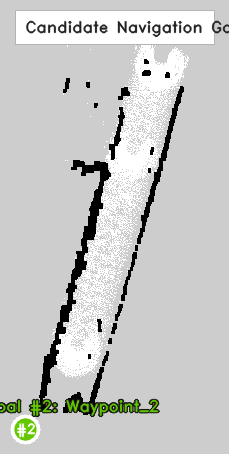
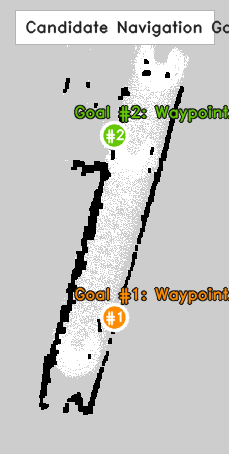
refactor(system_bringup): modularize system bringup into 4-part guide and clean docs foldering
- Structure system_bringup/ into 4 clean, focused modules:
  - Part 1 (01_preflight_and_network_setup.md): Hardware boot, Stand Mode check, ./connect_hotspot.sh, and NetBird VPN check
  - Part 2 (02_five_step_operational_sop.md): End-to-end 5-step operational pipeline (Mapping -> 2D Golden Map -> Localization & Goal HUD -> Autonomous Run -> Metrics)
  - Part 3 (03_pixnav_policy_and_slam_cheat_key_synthesis.md): Comprehensive analysis of PixNav policy, 3D->2D projection math, Euclidean distance arrival, and SLAM cheat-key vs ESCAPE-Nav
  - Part 4 (04_failsafes_and_troubleshooting.md): Field troubleshooting for perceptual aliasing, in-place rotation locks, topic namespace checks, and emergency stops
  - README.md: Executive hub with architecture diagram and quick reference commands
- Move unorganized space-containing screenshot in docs/ to docs/docker/visualizations/s2e_vlm_bringup_robot_side_launch.png
- Update docs/README.md priorities and canonical mapping command

diff --git a/system_bringup/README.md b/system_bringup/README.md
@@ -1,4 +1,4 @@
-# 🚀 Unitree Go2 ESCAPE-Nav & PixNav 시스템 브링업 마스터 가이드
+# 🚀 Unitree Go2 ESCAPE-Nav & PixNav 시스템 브링업 마스터 허브
 
 > **문서 버전**: v1.0.0 (ICRA 2026 Production Standard)  
 > **대상 플랫폼**: Unitree Go2 EDU (Jetson Orin NX 16GB + 4D LiDAR L2 + Front RGB Camera)  
@@ -7,20 +7,20 @@
 
 ---
 
-## 📌 목차 (Table of Contents)
+## 📌 마스터 가이드 모듈 구성
 
-1. [시스템 개요 및 아키텍처](#1-시스템-개요-및-아키텍처)
-2. [하드웨어 & 네트워크 사전 준비 (Pre-Flight)](#2-하드웨어--네트워크-사전-준비-pre-flight)
-3. [4대 표준 실행 스크립트 요약](#3-4대-표준-실행-스크립트-요약)
-4. [엔드투엔드 운영 파이프라인 (SOP 5단계)](#4-엔드투엔드-운영-파이프라인-sop-5단계)
-5. [핵심 연구 문서 안내 (PixNav 실체 & SLAM 치트키 분석)](#5-핵심-연구-문서-안내)
-6. [비상 조치 및 E-Stop](#6-비상-조치-및-e-stop)
+본 `system_bringup/` 디렉터리는 실물 사족로봇 Go2의 부팅부터 벤치마크 평가, 그리고 딥러닝 정책 분석까지 **역할별로 특화된 4대 독립 모듈**로 체계화되어 있습니다:
+
+| 모듈 번호 | 문서명 | 세부 내용 및 핵심 목적 |
+|:---:|---|---|
+| **Part 1** | [⚡ `01_preflight_and_network_setup.md`](01_preflight_and_network_setup.md) | **하드웨어 부팅 & 네트워크 전환**<br>• Go2 본체 전원 인가 및 Stand Mode 확인<br>• `./connect_hotspot.sh` 원터치 무선랜 및 NetBird VPN(`wt0`) 전환<br>• 외부 VLM GPU 서버(`100.96.60.15:8000`) 핑/API 헬스체크 |
+| **Part 2** | [📋 `02_five_step_operational_sop.md`](02_five_step_operational_sop.md) | **엔드투엔드 5단계 운영 SOP**<br>• 1단계: 3D/2D 복도 매핑 (`./run_mapping.sh`)<br>• 2단계: 2D 골든 맵 추출 (`extract_final_golden_map.py`)<br>• 3단계: 위치추정 HUD & 엔터키 골 등록 (`./run_localization.sh`)<br>• 4단계: 자율주행 실행 (`./run_escape_nav.sh` vs `./run_pixnav.sh`)<br>• 5단계: 결과 CSV 및 대시보드 그래프 확인 |
+| **Part 3** | [🧠 `03_pixnav_policy_and_slam_cheat_key_synthesis.md`](03_pixnav_policy_and_slam_cheat_key_synthesis.md) | **PixNav 실체 분석 & SLAM 치트키 논쟁**<br>• Checkpoint_A 4채널 ResNet-18 + 트랜스포머 디코더 구조<br>• 3D 좌표의 2D 픽셀 $u$ 투영 공식 및 $v=360$ 중앙 고정 이유<br>• 등 뒤($180^\circ$) $u=160$ 억지 클램핑과 25° 회전 가드의 실체<br>• 100% 유클리드 거리 도착 판정 (비전 개입 0%)<br>• "SLAM 치트키" vs ESCAPE-Nav 비교 및 ICRA 논문 기여도 |
+| **Part 4** | [🛠 `04_failsafes_and_troubleshooting.md`](04_failsafes_and_troubleshooting.md) | **안전 가드 & 현장 트러블슈팅**<br>• 대칭 복도에서의 20m 텔레포트 오인 락온(Perceptual Aliasing) 방지<br>• `/localization_pose` 토픽 네임스페이스 점검 가이드<br>• 25° 강제 회전 헛바퀴 대처법 & 비정상 골 좌표 초기화<br>• 키보드/조종기/명령어 비상 정지(E-Stop) 프로토콜 |
 
 ---
 
-## 1. 🏗 시스템 개요 및 아키텍처
-
-본 워크스페이스(`go2_ws_antarctica`)는 사족보행 로봇 **Unitree Go2 EDU** 상에서 **ICRA 2026 자율주행 연구(*ESCAPE-Nav: Experience-Shaped Causally Aligned Perception–Execution for Asynchronous VLM Navigation*)**의 실물 로봇 온보드 배포 및 베이스라인(**PixNav**) 비교 평가를 수행하기 위한 전용 프로덕션 환경입니다.
+## 🏗 시스템 아키텍처 개요
 
 ```text
                                 [Unitree Go2 EDU 실물 로봇]
@@ -41,141 +41,32 @@
 
 ---
 
-## 2. ⚡ 하드웨어 & 네트워크 사전 준비 (Pre-Flight)
-
-### 2.1 하드웨어 부팅 순서
-1. **Go2 로봇 본체 전원 켜기**:
-   * 배터리 전원 버튼 1회 짧게 + 1회 길게(3초) 눌러 로봇 기동.
-   * 로봇이 서서히 일어서며 자세를 유지하는지 확인.
-2. **Jetson Orin NX 연결 확인**:
-   * 로봇 내부의 젯슨에 모니터/HDMI 또는 SSH로 접속:
-     ```bash
-     ssh unitree@192.168.123.18  # 유선 이더넷 직결 시
-     # 또는 NetBird VPN IP로 접속
-     ```
-
-### 2.2 모바일 핫스팟 및 NetBird VPN 원터치 전환
-복도 주행 중 무선 통신을 위해 유선 랜선을 뽑기 전, 반드시 핫스팟 연결 스크립트를 실행합니다:
+## 🎯 4대 표준 실행 스크립트 퀵 레퍼런스
 
 ```bash
 cd /home/unitree/go2_ws_antarctica
-./connect_hotspot.sh
-```
-* **검증 확인 사항**:
-  * `wlan0` 무선랜 연결 성공 여부
-  * NetBird VPN 가상 인터페이스 `wt0` 활성화 여부
-  * 외부 VLM 워크스테이션 핑 점검:
-    ```bash
-    ping -c 3 100.96.60.15
-    curl -s http://100.96.60.15:8000/v1/models | grep qwen
-    ```
 
----
+# 1. 3D/2D 복도 매핑
+./run_mapping.sh          # 헤드리스 매핑 (GUI 시각화 필요 시 --view 옵션 추가)
 
-## 3. 🎯 4대 표준 실행 스크립트 요약
+# 2. 실시간 위치추정 HUD & 대화형 골 등록
+./run_localization.sh     # 5초 웜업 후 [ENTER] 누르면 현재 위치 및 카메라 사진을 골로 자동 저장
 
-루트 디렉토리에 직관적인 정식 표준 명칭으로 통합되어 있습니다:
+# 3. 제안 기법: Full ESCAPE-Nav 자율주행
+./run_escape_nav.sh 1     # Goal 1번으로 Qwen-VL 비전 서보잉 주행
 
-| 표준 실행 명령어 | 대상 모드 및 세부 역할 |
-|---|---|
-| **`./run_mapping.sh`** | **3D/2D 복도 매핑 (SLAM)**<br>• L2 라이다 + IMU + 전면 카메라 정합 신규 지도 생성<br>• `--view` 옵션으로 3D GUI 뷰어 확인 가능 |
-| **`./run_localization.sh`** | **위치추정 HUD & 골 매니저**<br>• RTAB-Map 3DoF 전역 위치추정 실시간 모니터링<br>• 엔터([ENTER]) 입력 시 현 위치 + 카메라 사진을 신규 골로 자동 등록 |
-| **`./run_escape_nav.sh`** | **[Proposed] Full ESCAPE-Nav 주행**<br>• Qwen-VL 비동기 시각 서보잉 + Checkpoint_A 정책 협업<br>• 4D 라이다 능동 장애물 회피 및 벤치마크 대시보드 자동 저장 |
-| **`./run_pixnav.sh`** | **[Baseline] Direct PixNav 주행**<br>• 온보드 CUDA Checkpoint_A 가속 주행 (~54ms 추론)<br>• 라이다 긴급 제동 가드레일 적용 |
-
----
-
-## 4. 📋 엔드투엔드 운영 파이프라인 (SOP 5단계)
-
-### 🔹 [1단계] 복도 매핑 (SLAM Mapping)
-새로운 복도나 환경에서 신규 맵을 생성할 때 실행합니다:
-
-```bash
-./run_mapping.sh
-```
-1. 조종기로 로봇을 복도 시작점(Node 1)에서 끝점까지 천천히 왕복 주행시킵니다.
-2. 루프 클로저가 충분히 형성되면 `Ctrl+C`를 눌러 맵을 안전하게 저장합니다 (`~/.ros/rtabmap.db`).
-
----
-
-### 🔹 [2단계] 2D 골든 맵 자동 추출
-저장된 DB로부터 내비게이션용 고해상도 2D 평면도(`2d.png`, `2d_metadata.json`)를 추출합니다:
-
-```bash
-python3 scratch/extract_final_golden_map.py
-```
-* `2dmap/2d.png` 및 `2dmap/2d_metadata.json`이 자동 갱신됩니다.
-
----
-
-### 🔹 [3단계] 위치추정 가동 및 대화형 골 등록 (Interactive HUD)
-로봇을 복도 시작 지점에 두고 위치추정 HUD를 실행합니다:
-
-```bash
-./run_localization.sh
-```
-1. **5초 안정화 모니터**: HUD에서 지터(Jitter)가 안정되고 `LOCALIZED`가 뜨는지 확인합니다.
-2. **골 등록**: 조종기로 로봇을 원하는 목적지(Waypoint 1)로 이동시킨 후 **`[ENTER]`**를 누릅니다:
-   * 현재 $(X, Y, Z, \text{Yaw})$ 좌표가 `config/navigation_goals.json`에 저장됩니다.
-   * 전면 카메라 사진(`config/goals/goal_01_Waypoint_1.jpg`)이 자동 캡처됩니다.
-   * 2D 지도에 골 핀이 오버레이된 `2dmap/2d_goals_map.png`가 자동 생성됩니다.
-3. 필요한 만큼 웨이포인트를 등록한 후 `q`를 눌러 종료합니다.
-
----
-
-### 🔹 [4단계] 자율주행 실행 (ESCAPE-Nav vs PixNav)
-
-#### 제안 기법 주행 (ESCAPE-Nav)
-```bash
-./run_escape_nav.sh 1       # Goal 1번으로 즉시 주행
-./run_escape_nav.sh 1,2     # Goal 1 -> Goal 2 순차 패트롤 주행
+# 4. 베이스라인: Direct PixNav 온보드 CUDA 자율주행
+./run_pixnav.sh 1         # Goal 1번으로 Checkpoint_A 신경망 고속 주행 (~54ms)
 ```
 
-#### 베이스라인 주행 (PixNav)
-```bash
-./run_pixnav.sh 1           # Goal 1번으로 PixNav 단독 주행
-```
-
-* 주행 중 터미널에 실시간 속도($v_x, w_z$), 남은 거리, 추론 레이턴시가 10Hz로 스트리밍됩니다.
-* 목표 지점 $0.35\text{m}$ 이내에 도달하면 자동으로 감속 정지하며 미션이 성공(`ARRIVED`) 처리됩니다.
-
 ---
 
-### 🔹 [5단계] 실험 결과 및 벤치마크 아티팩트 확인
-주행이 완료되면 `experiments/pixnav/` 또는 `experiments/ours/` 아래에 타임스탬프 폴더가 자동 생성됩니다:
+## 🛑 비상 조치 (Emergency Stop)
 
-* `trial_trajectory_on_2d_map.png`: 2D 평면도 위에 실제 주행 궤적이 오버레이된 이미지.
-* `trial_benchmark_dashboard.png`: 4분할 연구용 출판 품질 대시보드 그래프.
-* `trajectory_raw.csv`: 10Hz 원시 포즈 및 속도 시계열 데이터.
-* `vlm_decisions.jsonl`: 매 추론 스텝별 행동, 확률, 레이턴시 기록.
-* `camera_snapshots/`: 실시간 카메라 판단 뷰 저장 디렉토리.
-
----
-
-## 5. 📚 핵심 연구 문서 안내
-
-본 폴더에는 이번 연구 세션에서 규명된 **PixNav의 내부 실체와 SLAM 치트키 논쟁에 대한 심층 보고서**가 보존되어 있습니다:
-
-* 👉 [`01_pixnav_deep_synthesis_and_slam_cheat_key.md`](01_pixnav_deep_synthesis_and_slam_cheat_key.md)
-  * **PixNav 정책 신경망 구조**: 4채널 ResNet-18 + 트랜스포머 디코더 분석
-  * **3D ➔ 2D 픽셀 투영 기하학**: 가로 픽셀 $u$ 계산식 및 $v=360$ 중앙 고정 이유
-  * **등 뒤(180°)의 딜레마**: 화각 밖 $u=160$ 억지 클램핑과 25° 강제 제자리 회전 가드의 실체
-  * **10Hz 상태 추정**: 1Hz SLAM 보정과 50Hz 오도메트리 적분의 결합 원리
-  * **주행 성공 판정의 진실**: 비전 개입 0%, 100% 유클리드 거리 판정 메커니즘
-  * **"SLAM 치트키" vs ESCAPE-Nav 비교**: 왜 메트릭 흉내내기가 직선 복도에서만 강하고 실세계에서는 자멸하는가?
-* 👉 [`02_fail_safes_and_troubleshooting.md`](02_fail_safes_and_troubleshooting.md)
-  * 대칭 복도에서의 20m 텔레포트 오인 락온 방지법
-  * 토픽 네임스페이스 점검 가이드
-
----
-
-## 6. 🛑 비상 조치 및 E-Stop
-
-주행 도중 로봇이 이상 거동을 보이거나 비상 정지가 필요한 경우:
-1. **키보드 비상 정지**: 터미널에서 **`Ctrl + C`**를 누르면 트랩 핸들러가 발동하여 로봇 속도를 $0.0$으로 즉시 초기화하고 모든 프로세스를 안전하게 종료합니다.
-2. **조종기 인터럽트**: Unitree 무선 조종기의 비상 정지 버튼(L2+B 또는 스탠드 모드 전환)을 누르면 모터 레벨에서 하드웨어 락이 걸립니다.
-3. **긴급 강제 종료 명령어**:
-   ```bash
-   pkill -9 -f go2_autonomous_navigator
-   pkill -9 -f rtabmap
-   ```
+* **키보드 즉시 정지**: 실행 중인 터미널에서 **`Ctrl + C`**를 누르면 안전 트랩이 발동하여 로봇 선속도/각속도를 $0.0$으로 리셋하고 모터를 안전하게 정지시킵니다.
+* **조종기 강제 락**: Unitree 무선 조종기의 비상 정지 버튼(L2+B)을 눌러 모터 하드웨어 락을 겁니다.
+* **프로세스 긴급 사살**:
+  ```bash
+  pkill -9 -f go2_autonomous_navigator
+  pkill -9 -f rtabmap
+  ```

diff --git a/system_bringup/02_five_step_operational_sop.md b/system_bringup/02_five_step_operational_sop.md
@@ -1,0 +1,108 @@
+# 📋 [Part 2] 엔드투엔드 운영 파이프라인 (5-Step Operational SOP)
+
+> **문서 버전**: v1.0.0 (ICRA 2026 Production Standard)  
+> **대상 플랫폼**: Unitree Go2 EDU (Jetson Orin NX + 4D LiDAR L2)  
+> **상위 허브**: [`system_bringup/README.md`](README.md)
+
+---
+
+## 🎯 5단계 운영 개요
+
+```text
+[1단계: 복도 매핑] ──▶ [2단계: 2D 맵 추출] ──▶ [3단계: 위치추정 & 골 등록] ──▶ [4단계: 자율주행 실행] ──▶ [5단계: 벤치마크 평가]
+  ./run_mapping.sh       extract_final_golden_map.py    ./run_localization.sh         ./run_escape_nav.sh          experiments/
+                                                                                     ./run_pixnav.sh
+```
+
+---
+
+## 🔹 [1단계] 3D/2D 복도 매핑 (SLAM Mapping)
+
+새로운 환경이나 맵을 재구축할 때 실행합니다:
+
+```bash
+cd /home/unitree/go2_ws_antarctica
+./run_mapping.sh
+```
+
+* **옵션**:
+  * `./run_mapping.sh` : 콘솔 텍스트 기반 헤드리스 매핑 (기본)
+  * `./run_mapping.sh --view` : 데스크톱 GUI 환경에서 RTAB-Map 3D 점군 뷰어 동시 실행
+* **조작 요령**:
+  1. Go2 무선 조종기를 잡고, 복도 시작점(Node 1)에서 끝점까지 **일정한 보행 속도(약 0.4 m/s)**로 천천히 주행합니다.
+  2. 복도 끝에서 180도 선회하여 다시 시작점으로 복귀하면서 **루프 클로저(Loop Closure)**를 닫아줍니다.
+  3. 콘솔에 루프 클로저 성공 메시지가 출력되면 **`Ctrl + C`**를 눌러 매핑을 안전하게 종료합니다.
+* **산출물**:
+  * `~/.ros/rtabmap.db` (정합된 키프레임 및 링크 그래프 저장)
+
+---
+
+## 🔹 [2단계] 2D 골든 맵 자동 추출
+
+생성된 3D 데이터베이스로부터 내비게이션용 고해상도 2D 평면 격자 지도를 일괄 추출합니다:
+
+```bash
+python3 scratch/extract_final_golden_map.py
+```
+
+* **추출 산출물**:
+  * `2dmap/2d.png` : 4cm 해상도의 클린 2D 평면도
+  * `2dmap/2d_metadata.json` : 맵 원점, 해상도, 유효 바운딩 박스 메타데이터
+  * `2dmap/0833.pgm` 및 `0833.yaml` : ROS 표준 점유 격자 지도 파일
+
+---
+
+## 🔹 [3단계] 위치추정 가동 및 대화형 골 등록 (Interactive HUD)
+
+로봇을 복도 시작 지점에 두고 위치추정 HUD를 실행합니다:
+
+```bash
+./run_localization.sh
+```
+
+1. **5초 안정화 웜업**:
+   * 터미널 HUD에 지터(Jitter)가 안정되고 `🟢 LOCALIZED`가 출력될 때까지 5초간 대기합니다.
+2. **원터치 골 등록 ([ENTER])**:
+   * 조종기로 로봇을 이동시켜 원하는 목적지(Waypoint 1)에 세웁니다.
+   * 터미널에서 **`[ENTER]`**를 누릅니다:
+     * 현재 로봇의 정밀 좌표 $(X, Y, Z, \text{Yaw})$가 `config/navigation_goals.json`에 저장됩니다.
+     * 전면 카메라 뷰(`config/goals/goal_01_Waypoint_1.jpg`)가 자동으로 스냅샷 캡처됩니다.
+     * 2D 평면도 상에 골 핀이 마킹된 `2dmap/2d_goals_map.png`가 즉시 갱신됩니다.
+3. 원하는 수만큼 추가 웨이포인트를 등록한 후 **`q`**를 눌러 종료합니다.
+
+---
+
+## 🔹 [4단계] 자율주행 실행 (ESCAPE-Nav vs PixNav)
+
+### A. 제안 기법: Full ESCAPE-Nav 주행 (`./run_escape_nav.sh`)
+* **동작**: 외부 Qwen-VL 비동기 비전 서보잉 + Checkpoint_A 정책 협업 주행
+```bash
+./run_escape_nav.sh 1       # Goal 1번으로 단독 주행
+./run_escape_nav.sh 1,2     # Goal 1 -> Goal 2 순차 패트롤 주행
+```
+
+### B. 베이스라인: Direct PixNav 온보드 CUDA 주행 (`./run_pixnav.sh`)
+* **동작**: Jetson Orin NX 온보드 PyTorch CUDA 직접 가속 (~54ms 추론)
+```bash
+./run_pixnav.sh 1           # Goal 1번으로 PixNav 단독 주행
+```
+
+* **실시간 터미널 모니터링**:
+  * 10Hz 속도로 실시간 로봇 좌표, 목표까지의 유클리드 거리, $v_x, w_z$ 명령, 추론 레이턴시가 스트리밍됩니다.
+  * 목표 지점 $0.35\text{m}$ 이내에 도달하면 감속 정지하며 `🎉 [GOAL REACHED] ARRIVED` 메시지와 함께 자동 종료됩니다.
+
+---
+
+## 🔹 [5단계] 실험 결과 및 벤치마크 아티팩트 확인
+
+주행이 종료되면 `experiments/pixnav/` 또는 `experiments/ours/` 아래에 타임스탬프 기반 결과 폴더가 자동 생성됩니다:
+
+```text
+experiments/pixnav/20260902_11_goal2_Waypoint_2/
+├── trial_summary.md              # 성공 여부, 소요 시간, 이동 거리, 평균 속도, 오차 요약
+├── trial_trajectory_on_2d_map.png # 2D 맵 위에 로봇 주행 궤적이 실선으로 오버레이된 이미지
+├── trial_benchmark_dashboard.png # 4분할 연구용 출판 품질 그래프 (Trajectory, Velocities, Distance, Actions)
+├── trajectory_raw.csv            # 10Hz 원시 시계열 데이터 (x, y, yaw, vx, wz, dist, heading)
+├── vlm_decisions.jsonl           # 매 추론 스텝별 정책 결정 및 지연 시간 로그
+└── camera_snapshots/             # 주행 중 실시간 카메라 판단 뷰 모음
+```

diff --git a/system_bringup/01_preflight_and_network_setup.md b/system_bringup/01_preflight_and_network_setup.md
@@ -1,0 +1,63 @@
+# ⚡ [Part 1] 하드웨어 & 네트워크 사전 준비 (Pre-Flight & Network Setup)
+
+> **문서 버전**: v1.0.0 (ICRA 2026 Standard)  
+> **대상 플랫폼**: Unitree Go2 EDU (Jetson Orin NX 16GB + 4D LiDAR L2)  
+> **상위 허브**: [`system_bringup/README.md`](README.md)
+
+---
+
+## 1. 🤖 하드웨어 부팅 순서
+
+### 1.1 배터리 및 본체 전원 인가
+1. **배터리 전원 버튼**:
+   * **1회 짧게 누른 후, 즉시 1회 길게(3초간)** 누릅니다.
+   * 배터리 잔량 LED(4칸)가 차례로 켜진 후 Go2 로봇이 기상 시퀀스를 시작합니다.
+2. **자세 확인**:
+   * 로봇이 서서히 일어서며 표준 스탠드 자세(Stand Mode)를 안정적으로 유지하는지 육안 확인합니다.
+
+### 1.2 온보드 컴퓨터(Jetson Orin NX 16GB) 접속
+* **유선 이더넷 연결 시 (책상 위 작업)**:
+  ```bash
+  ssh unitree@192.168.123.18
+  # Password: 123
+  ```
+* **무선 NetBird VPN 연결 시 (원격/복도 주행)**:
+  ```bash
+  ssh unitree@<GO2_NETBIRD_IP>
+  ```
+
+---
+
+## 2. 📶 모바일 핫스팟 및 NetBird VPN 원터치 전환
+
+복도 자율주행을 위해 유선 랜선을 분리하기 전, 반드시 무선 네트워크 스위칭 스크립트를 실행합니다.
+
+```bash
+cd /home/unitree/go2_ws_antarctica
+./connect_hotspot.sh
+```
+
+### 2.1 스크립트 내부 자동 수행 작업
+1. `wlan0` 무선 인터페이스 우선순위(Metric) 승격
+2. 지정된 모바일 핫스팟 SSID로 자동 연결
+3. 유선 이더넷(`eth0`) 게이트웨이 충돌 방지 라우팅 설정
+4. NetBird VPN(`wt0`) 인터페이스 활성화 검증
+
+### 2.2 사전 점검 체크리스트 (Self-Check)
+
+터미널에서 다음 3가지 연결 상태를 반드시 확인하십시오:
+
+```bash
+# 1. 무선 인터페이스 IP 확인
+ip addr show wlan0
+
+# 2. NetBird VPN 인터페이스(wt0) 확인
+ip addr show wt0
+
+# 3. 외부 GPU VLM 서버(100.96.60.15:8000) 핑 및 API 응답 점검
+ping -c 3 100.96.60.15
+curl -s http://100.96.60.15:8000/v1/models | grep qwen
+```
+
+> [!IMPORTANT]
+> `ping`과 `curl` 응답이 모두 정상이어야 **제안 기법(ESCAPE-Nav)**이 외부 GPU 서버와 지연 없이 통신할 수 있습니다. 만약 응답이 없다면 모바일 핫스팟의 데이터 연결 상태와 NetBird 데몬 상태(`sudo netbird status`)를 점검하십시오.

diff --git a/docs/README.md b/docs/README.md
@@ -7,6 +7,7 @@
 
 | 우선순위 | 문서 | 용도 |
 |---:|---|---|
+| **⭐ 0** | [`시스템 브링업 & 운영 SOP 마스터 허브`](../system_bringup/README.md) | **부팅·핫스팟·5단계 SOP·PixNav 분석 및 트러블슈팅 총괄** |
 | 1 | [`실로봇 전체 E2E 마스터 계획`](./experiments/00_real_robot_end_to_end_master_test_plan.md) | 센서→3DoF map→localization→PixelNav/S2E→4-Tier→안전→pilot→논문 campaign |
 | 2 | [`00_CURRENT_STATUS_AND_NEXT_STEPS.md`](./00_CURRENT_STATUS_AND_NEXT_STEPS.md) | RTAB-Map 최신 실측과 바로 다음 작업 |
 | 3 | [`4-Tier 최신 구현률`](./experiments/07_4tier_robot_jetson_docker_server_readiness.md) | Tier별 준비도, Gate 완료도, 8월 30일 Jetson-only 검증 |
@@ -31,13 +32,11 @@
 ```bash
 cd /home/unitree/go2_ws_antarctica
 
-./run_map.sh       # Jetson desktop GUI
-./map_headless.sh  # SSH/tmux
-./run_map.sh --view
-./analyze_map_run.py  # latest run의 read-only DB/log 자동 판정
+./run_mapping.sh          # 3D/2D 복도 매핑 (헤드리스 기본)
+./run_mapping.sh --view   # Jetson 데스크톱 GUI 점군 뷰어 동시 활성화
 ```
 
-사용자용 mapping 진입점은 위 두 파일뿐이다. 둘 다 planar 3DoF, 3D L2/ICP, RGB 장소 후보와 LiDAR ICP global-loop 검증을 사용하고 recorder·Docker/VLM·motor path는 시작하지 않는다.
+사용자용 최신 브링업 및 자율주행 파이프라인은 [`../system_bringup/README.md`](../system_bringup/README.md)에 집대성되어 있습니다.
 
 ## 폴더 지도
 
